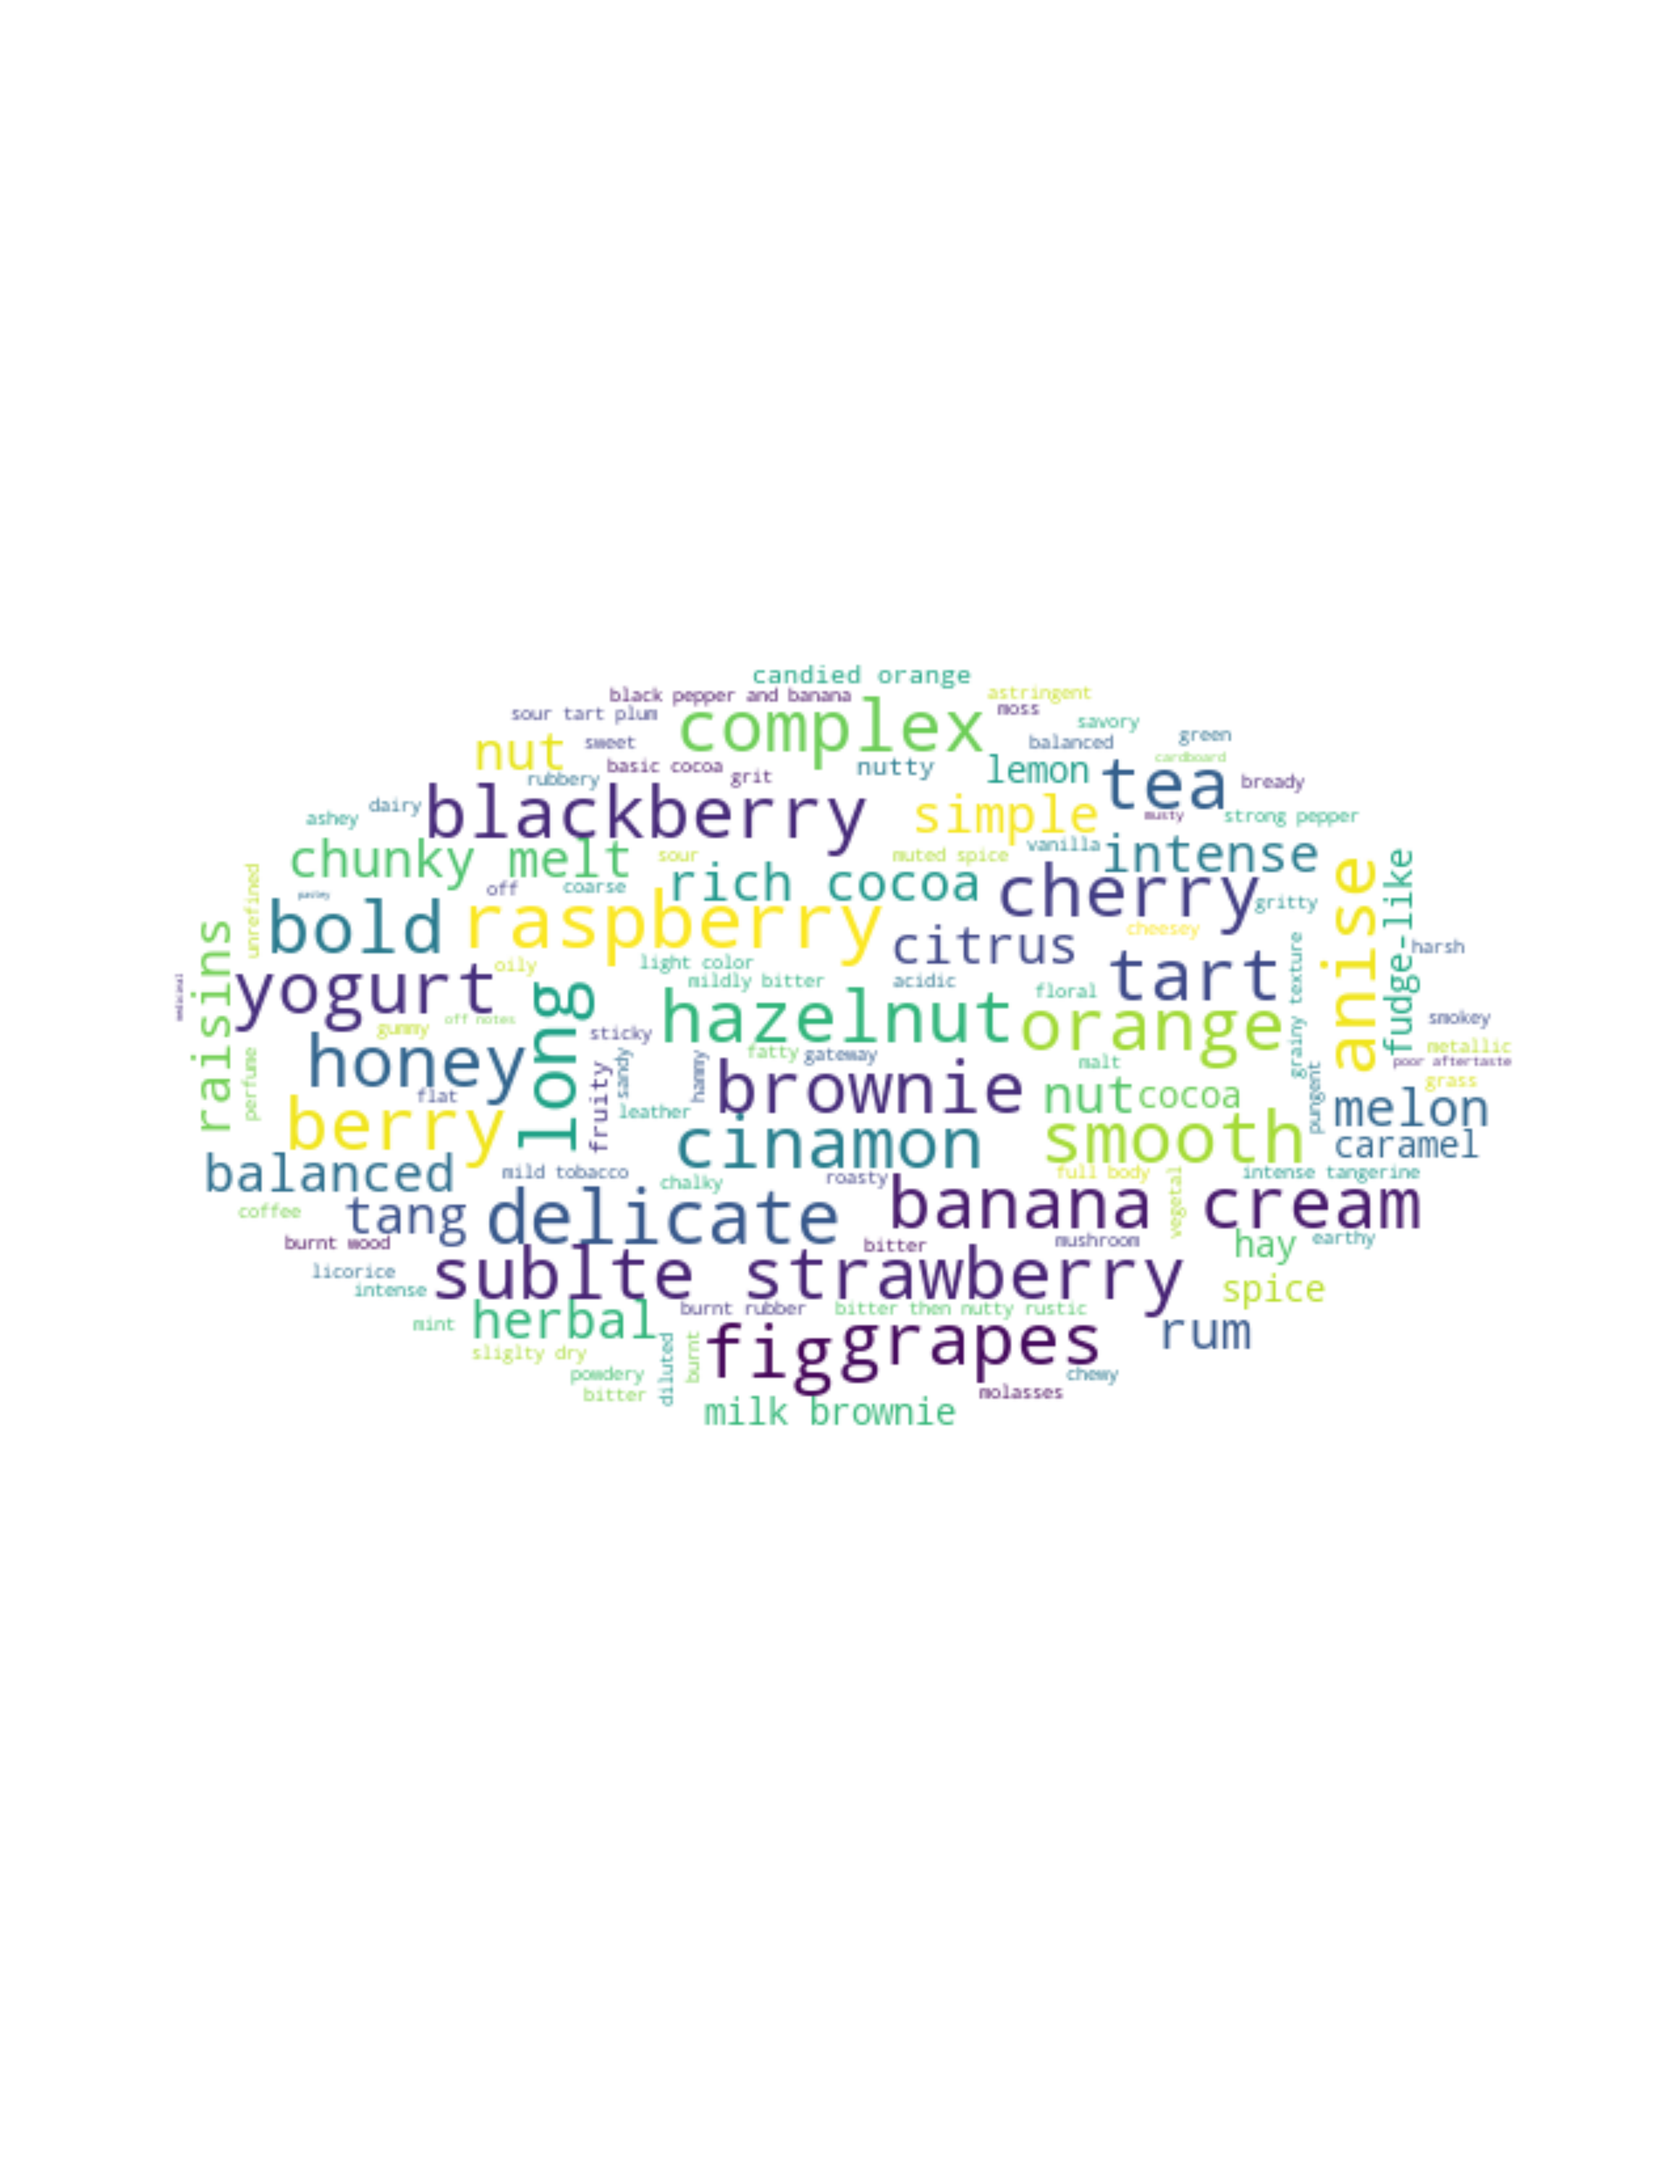
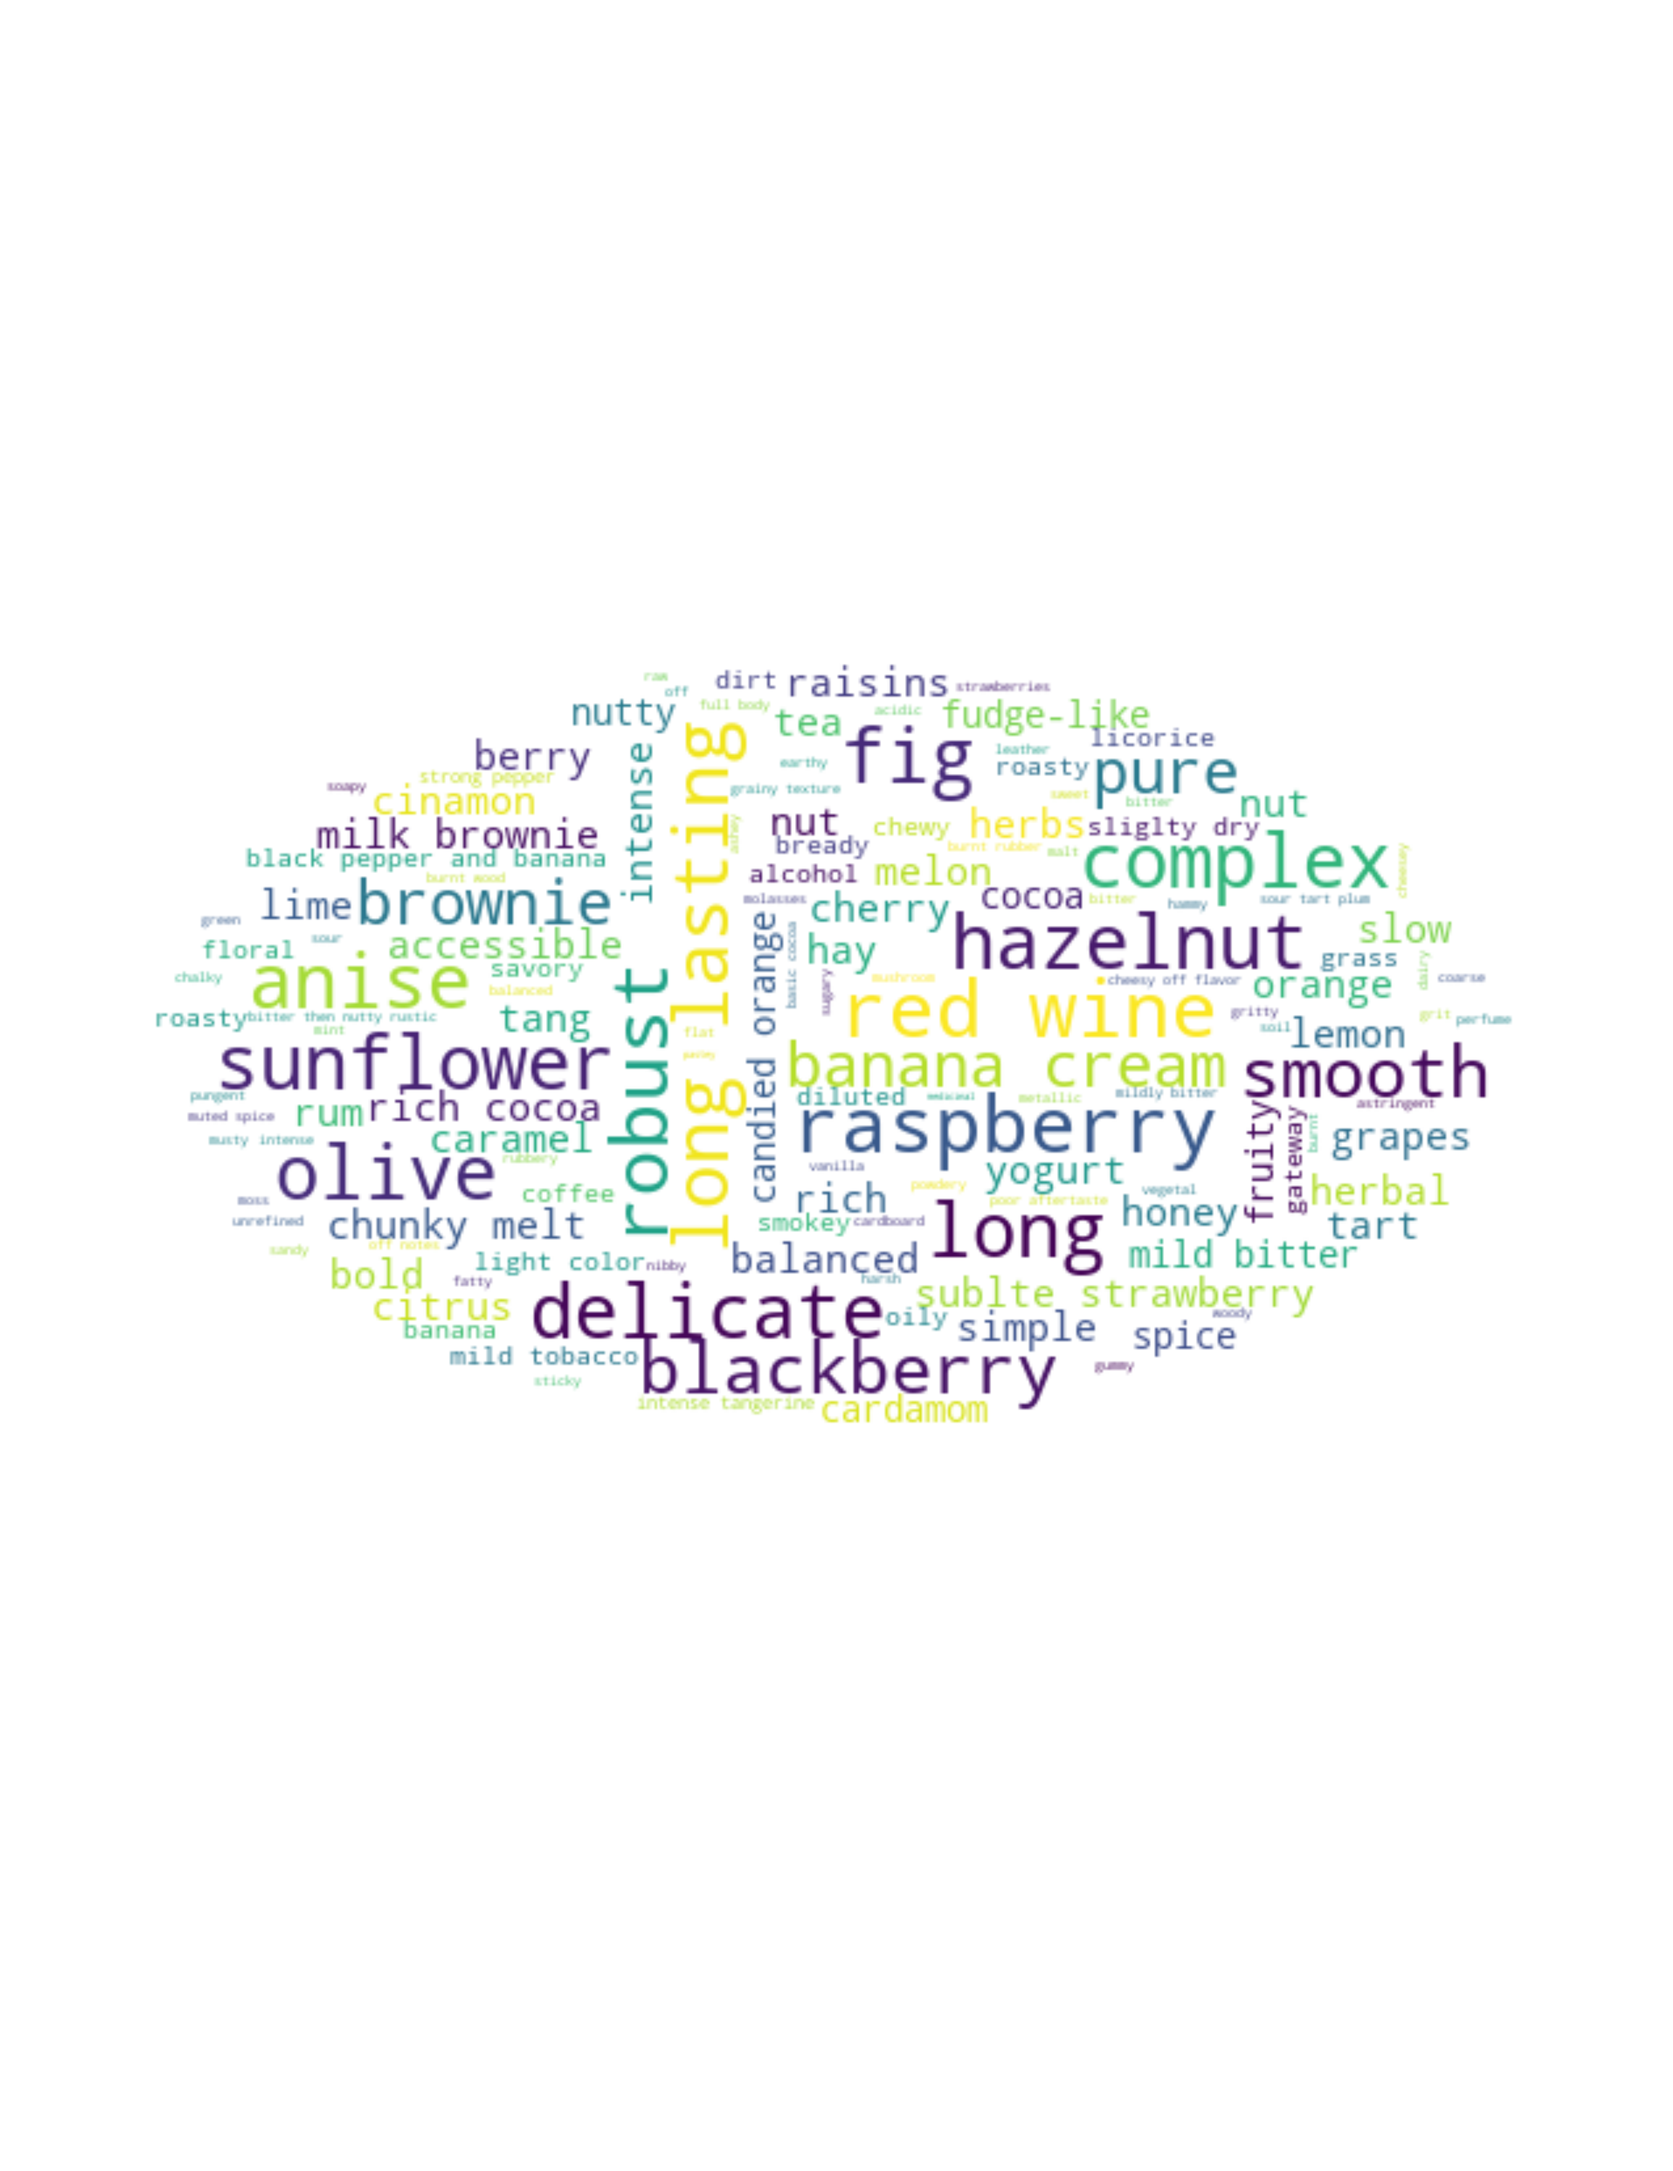
[FIX] fix to 3 occurences

Changed region(s): [[0.0935, 0.2812, 0.9036, 0.6562]]

diff --git a/wc_choclate_by_avg_best.py b/wc_choclate_by_avg_best.py
@@ -1,0 +1,51 @@
+import numpy as np
+import matplotlib.pyplot as plt
+import pandas as pd
+from wordcloud import WordCloud, ImageColorGenerator
+from PIL import Image
+from scipy.ndimage import gaussian_gradient_magnitude
+from fuzzywuzzy import fuzz
+
+# Read the data
+data = pd.read_csv('data/chocolate.csv')
+
+# Function to merge similar characteristics
+def merge_similar_characteristics(characteristics):
+    merged = {}
+    for char in characteristics:
+        merged[char] = char
+        for key in merged.keys():
+            if char != key and fuzz.partial_ratio(char, key) >= 80:
+                merged[char] = key
+                break
+    return merged
+
+# Split multiple characteristics and explode into separate rows
+data['most_memorable_characteristics'] = data['most_memorable_characteristics'].str.split(',')
+data = data.explode('most_memorable_characteristics')
+
+# Merge similar characteristics
+similar_characteristics = merge_similar_characteristics(data['most_memorable_characteristics'].unique())
+data['most_memorable_characteristics'] = data['most_memorable_characteristics'].map(similar_characteristics)
+
+# Remove characteristics with less than 3 occurrences
+data = data.groupby('most_memorable_characteristics').filter(lambda x: len(x) > 3)
+
+# Calculate average rating for each characteristic
+average_rating = data.groupby('most_memorable_characteristics')['rating'].mean().to_dict()
+
+# Normalize ratings to range from 0 to 1
+min_rating = min(average_rating.values())
+max_rating = max(average_rating.values())
+normalized_ratings = {word: (rating - min_rating) / (max_rating - min_rating) for word, rating in average_rating.items()}
+
+mask = np.array(Image.open("img/ellipse.png"))
+
+wc = WordCloud(max_words=2000, max_font_size=30, mask=mask, random_state=41,background_color='white',colormap='viridis')
+
+wc.generate_from_frequencies(normalized_ratings)
+
+plt.figure(figsize=(12, 12))
+plt.imshow(wc, interpolation="bilinear")
+plt.axis('off')
+plt.savefig('img/wordcloud_best_characteristics.png', dpi=600, bbox_inches='tight')

diff --git a/wc_choclate_by_avg_worst.py b/wc_choclate_by_avg_worst.py
@@ -28,8 +28,8 @@ data = data.explode('most_memorable_characteristics')
 similar_characteristics = merge_similar_characteristics(data['most_memorable_characteristics'].unique())
 data['most_memorable_characteristics'] = data['most_memorable_characteristics'].map(similar_characteristics)
 
-# Remove characteristics with less than 5 occurrences
-data = data.groupby('most_memorable_characteristics').filter(lambda x: len(x) > 5)
+# Remove characteristics with less than 3 occurrences
+data = data.groupby('most_memorable_characteristics').filter(lambda x: len(x) > 3)
 
 # Calculate average rating for each characteristic
 average_rating = data.groupby('most_memorable_characteristics')['rating'].mean().to_dict()
